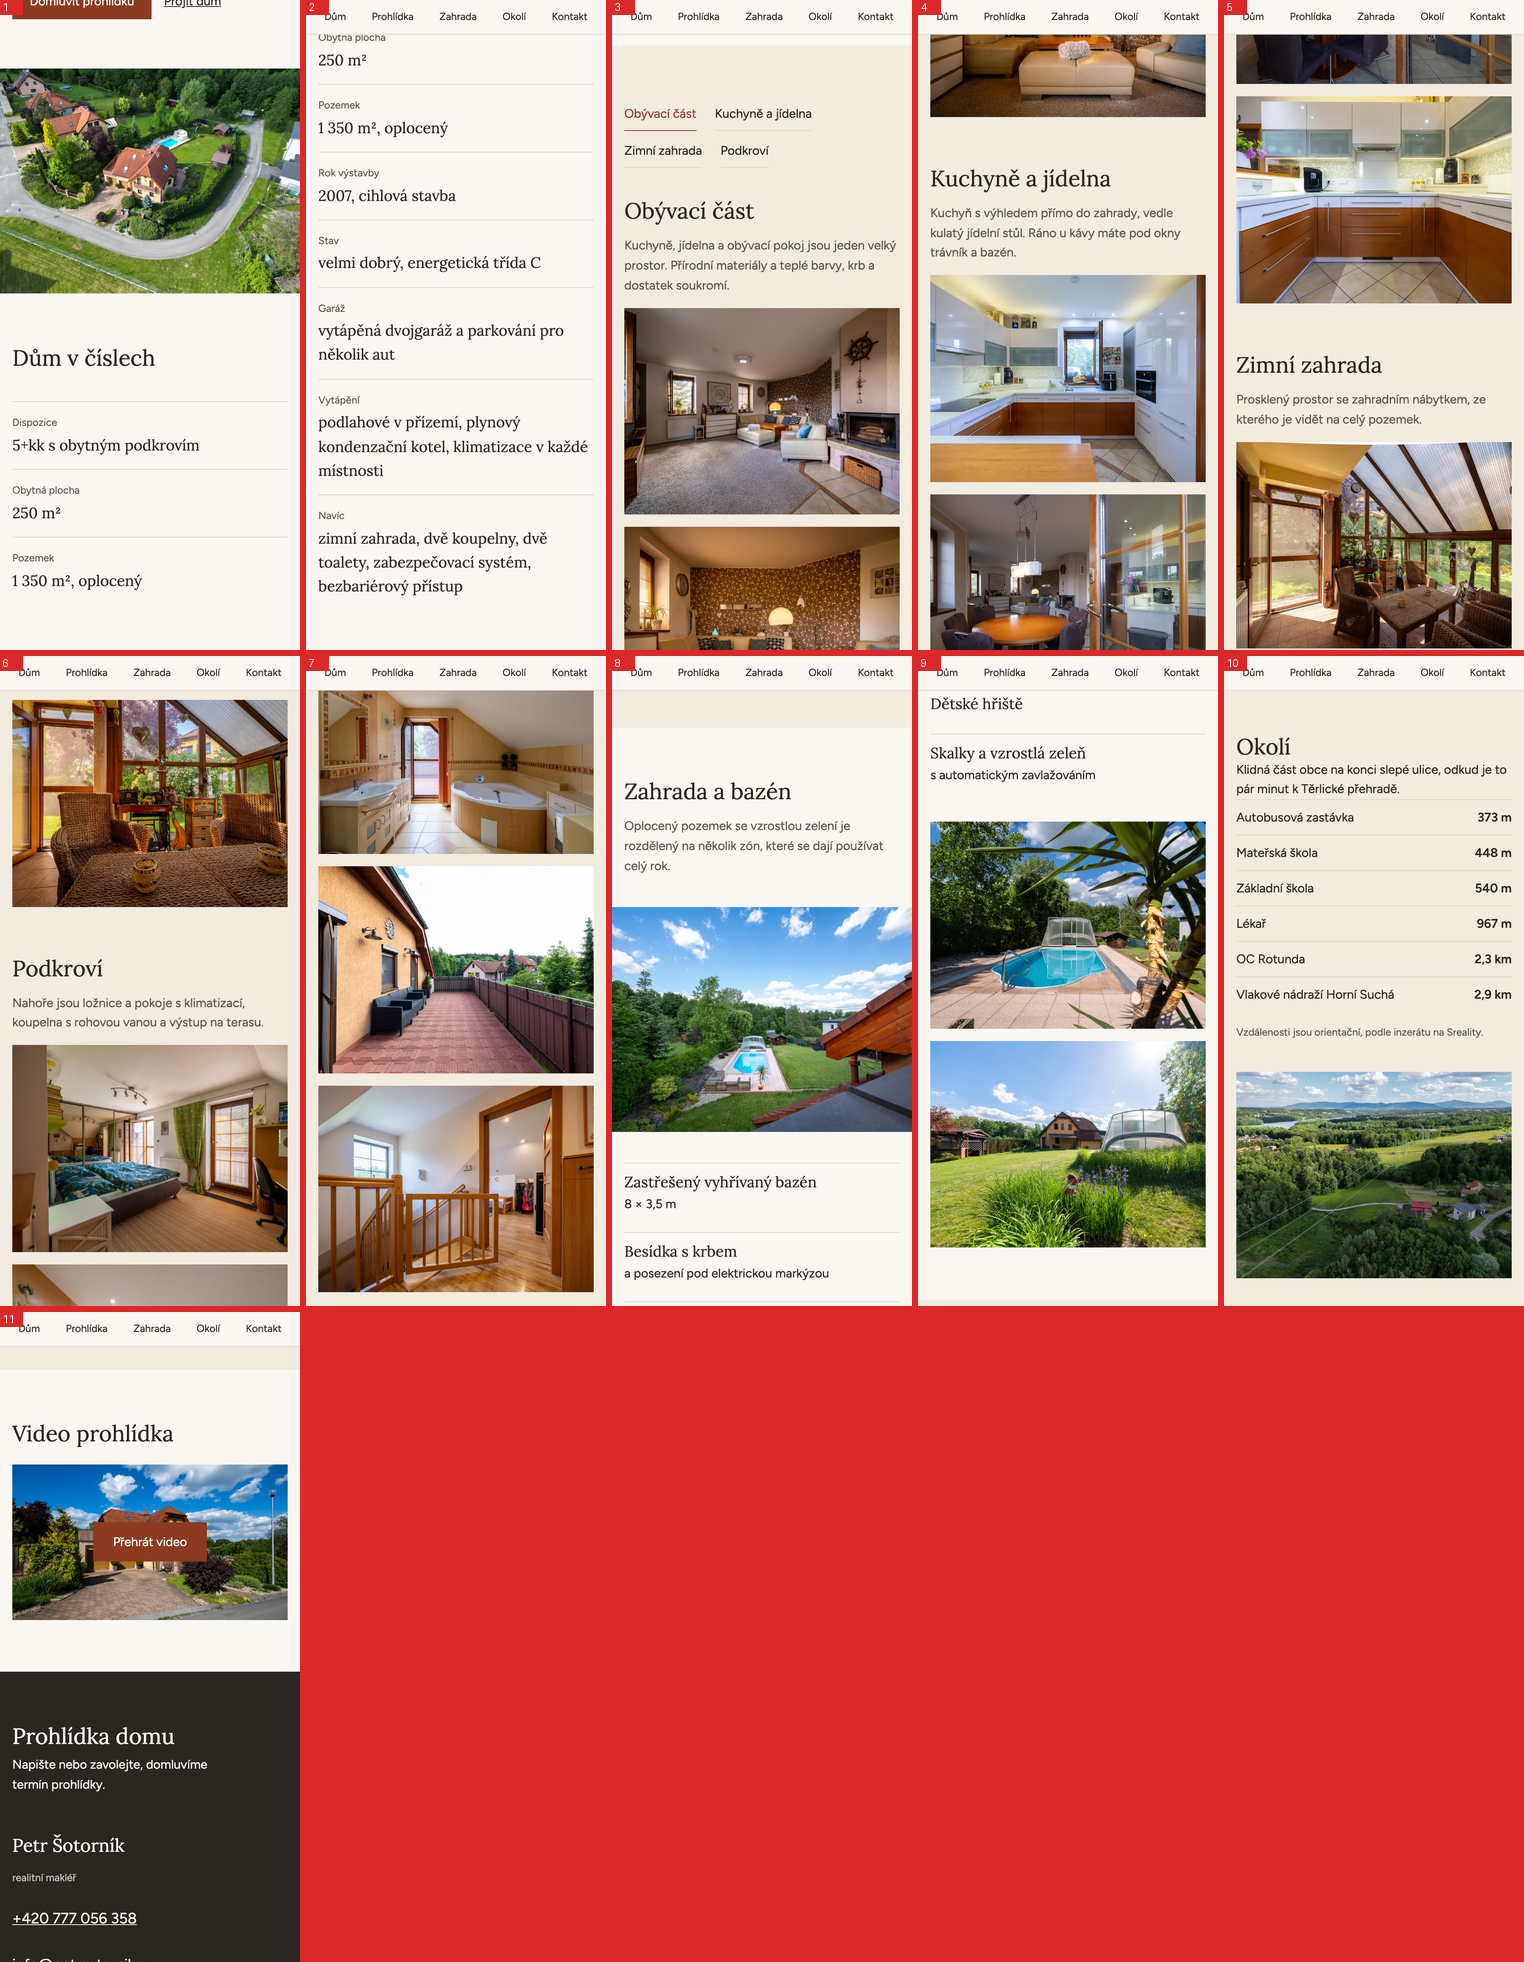
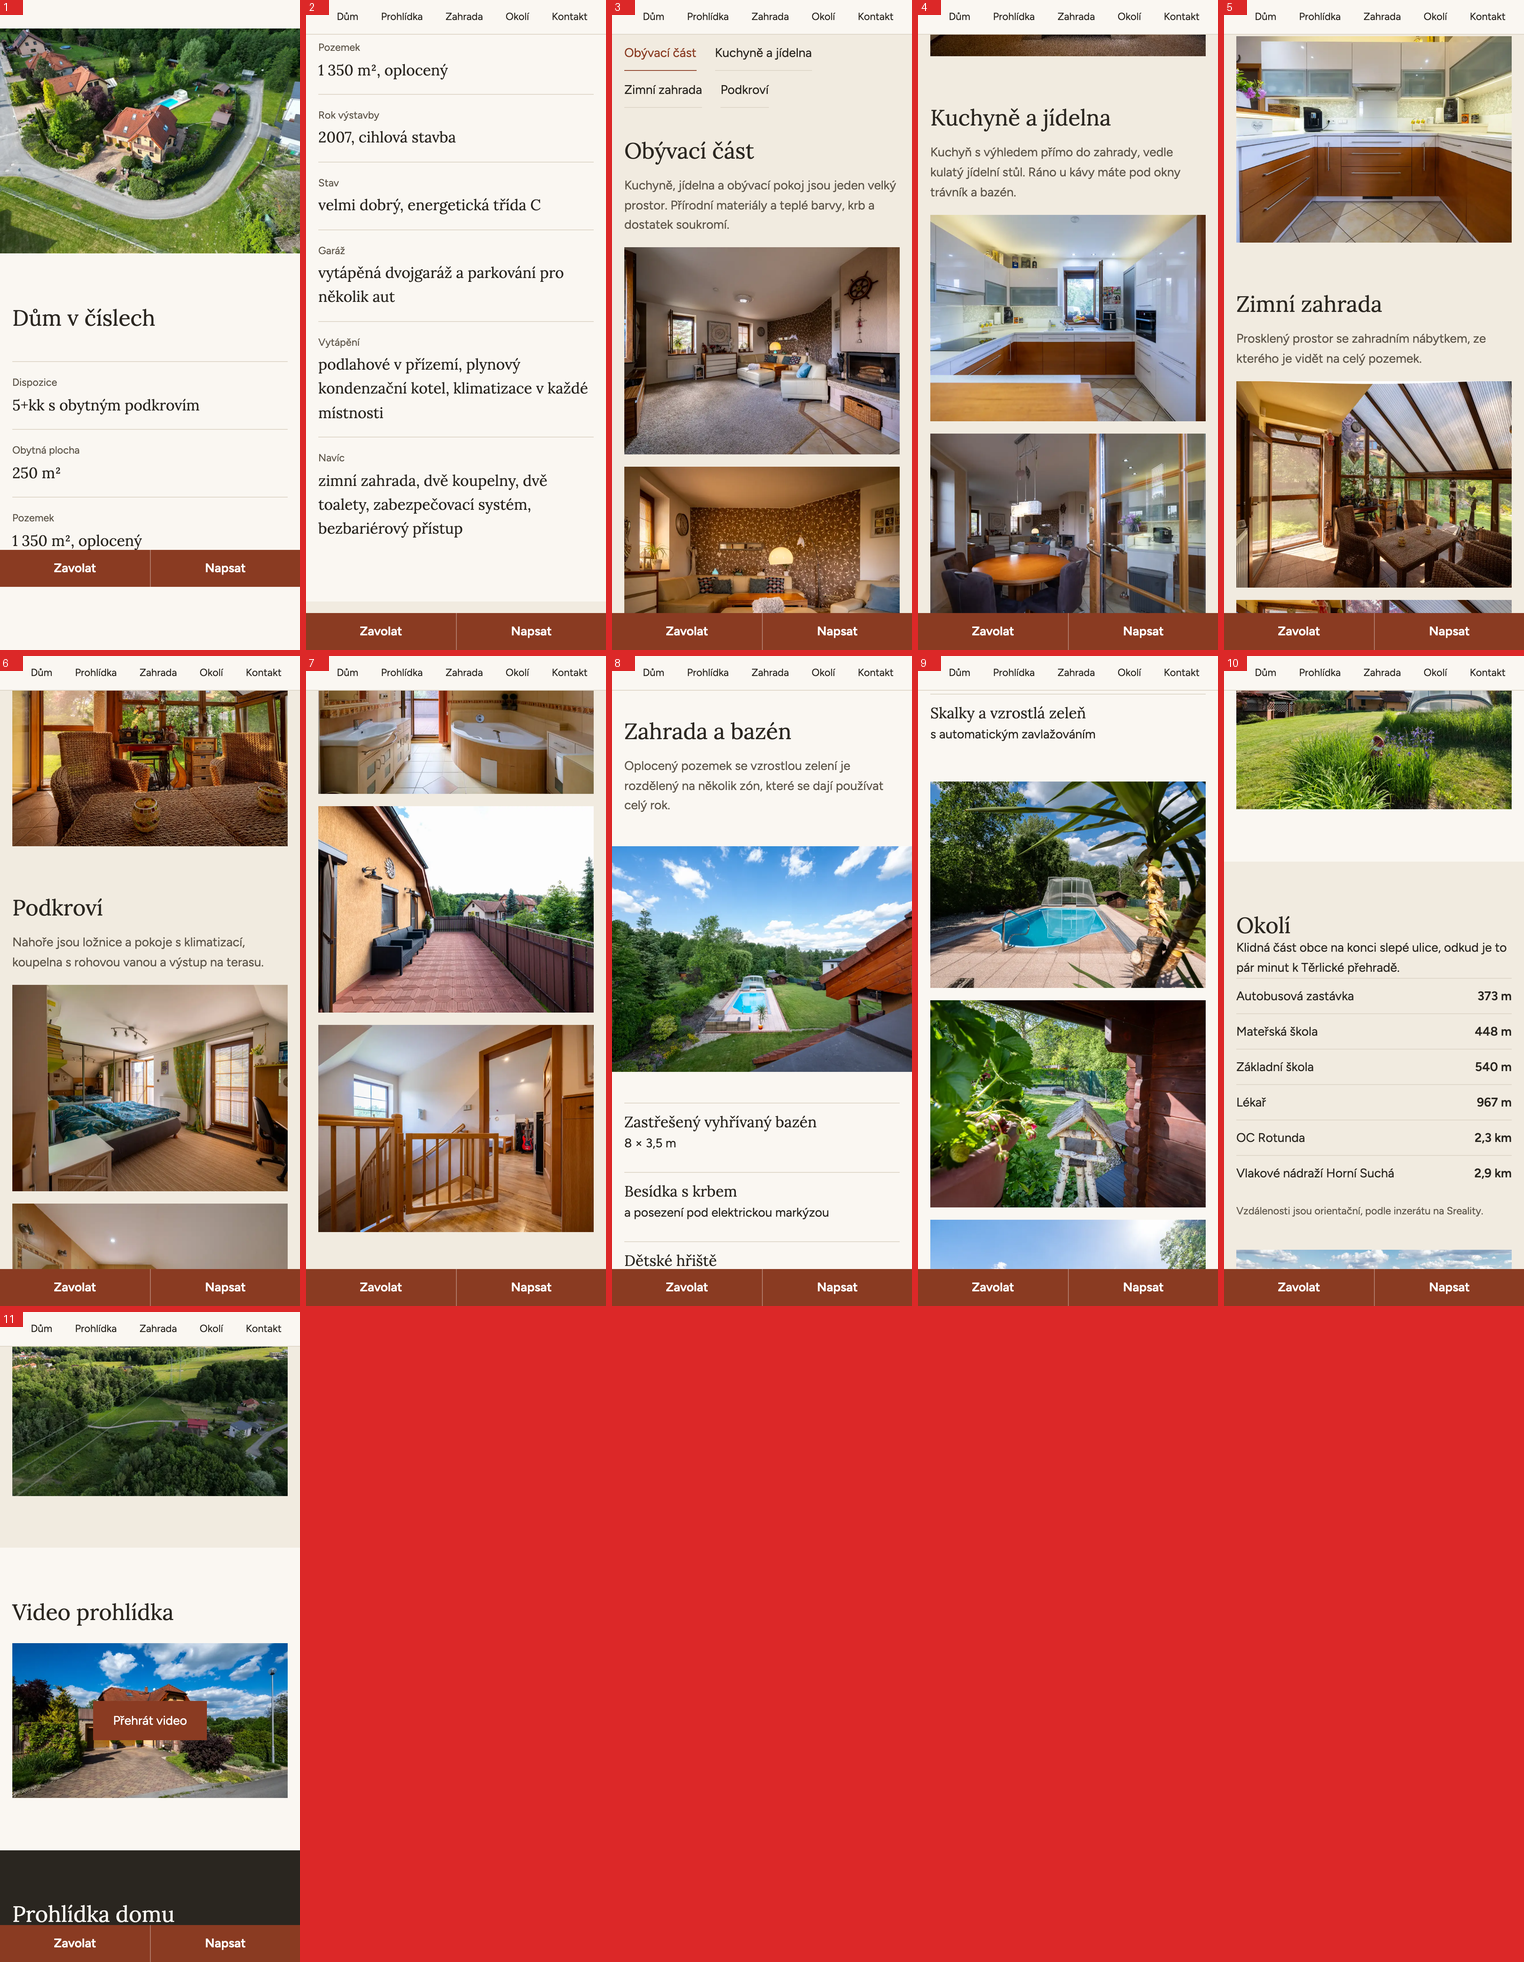
Aktualizace webu 2026-10-19 14:25

diff --git a/static/css/style.css b/static/css/style.css
@@ -158,3 +158,6 @@ h1 { font-size: var(--step-5); }
   .spodni-lista a + a { border-left: 1px solid rgba(255,255,255,.35); }
   .paticka { padding-bottom: 5rem; }
 }
+@media (min-width: 62rem) { .hero { grid-template-columns: 50fr 50fr; } .hero-text { padding-right: var(--space-4); } }
+body { padding-bottom: 0; }
+@media (max-width: 40rem) { .kontakt { padding-bottom: calc(var(--space-6) + 3.5rem); } .paticka { padding-bottom: calc(5rem + env(safe-area-inset-bottom)); } }
